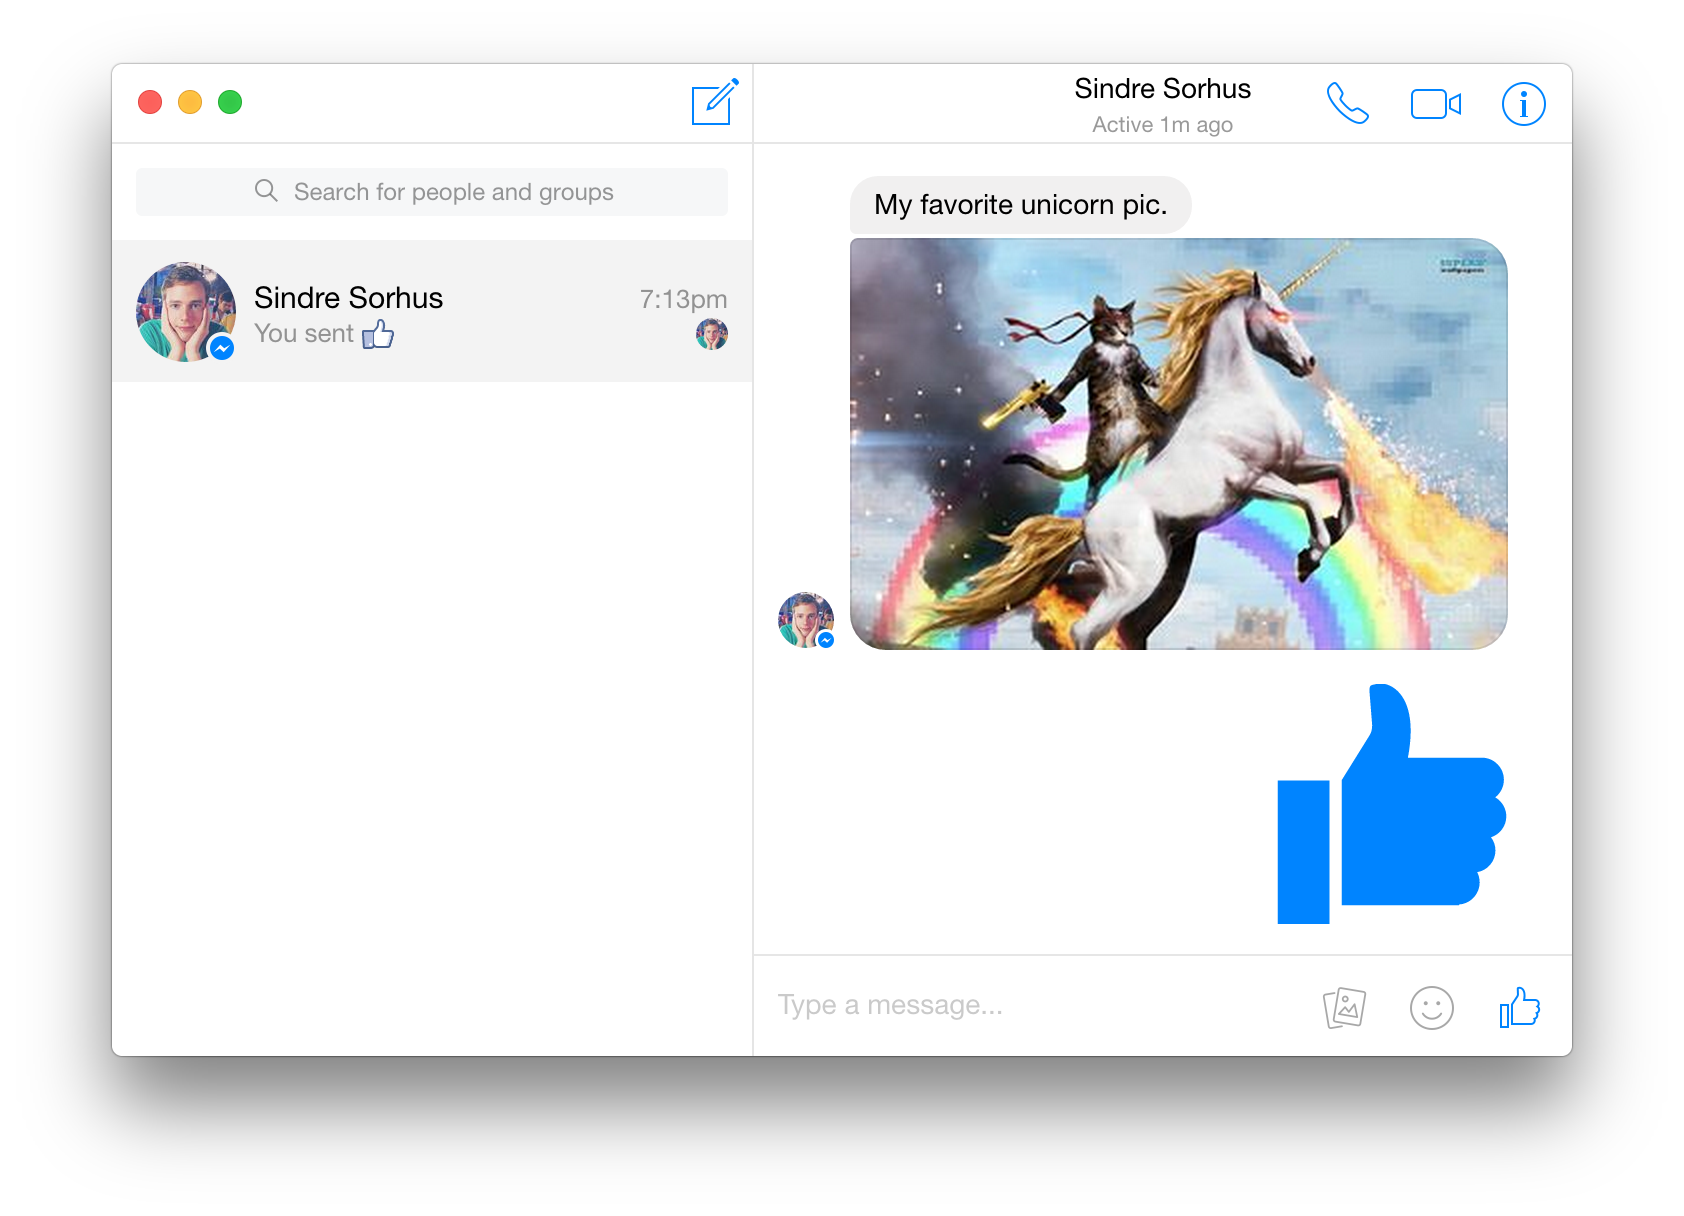
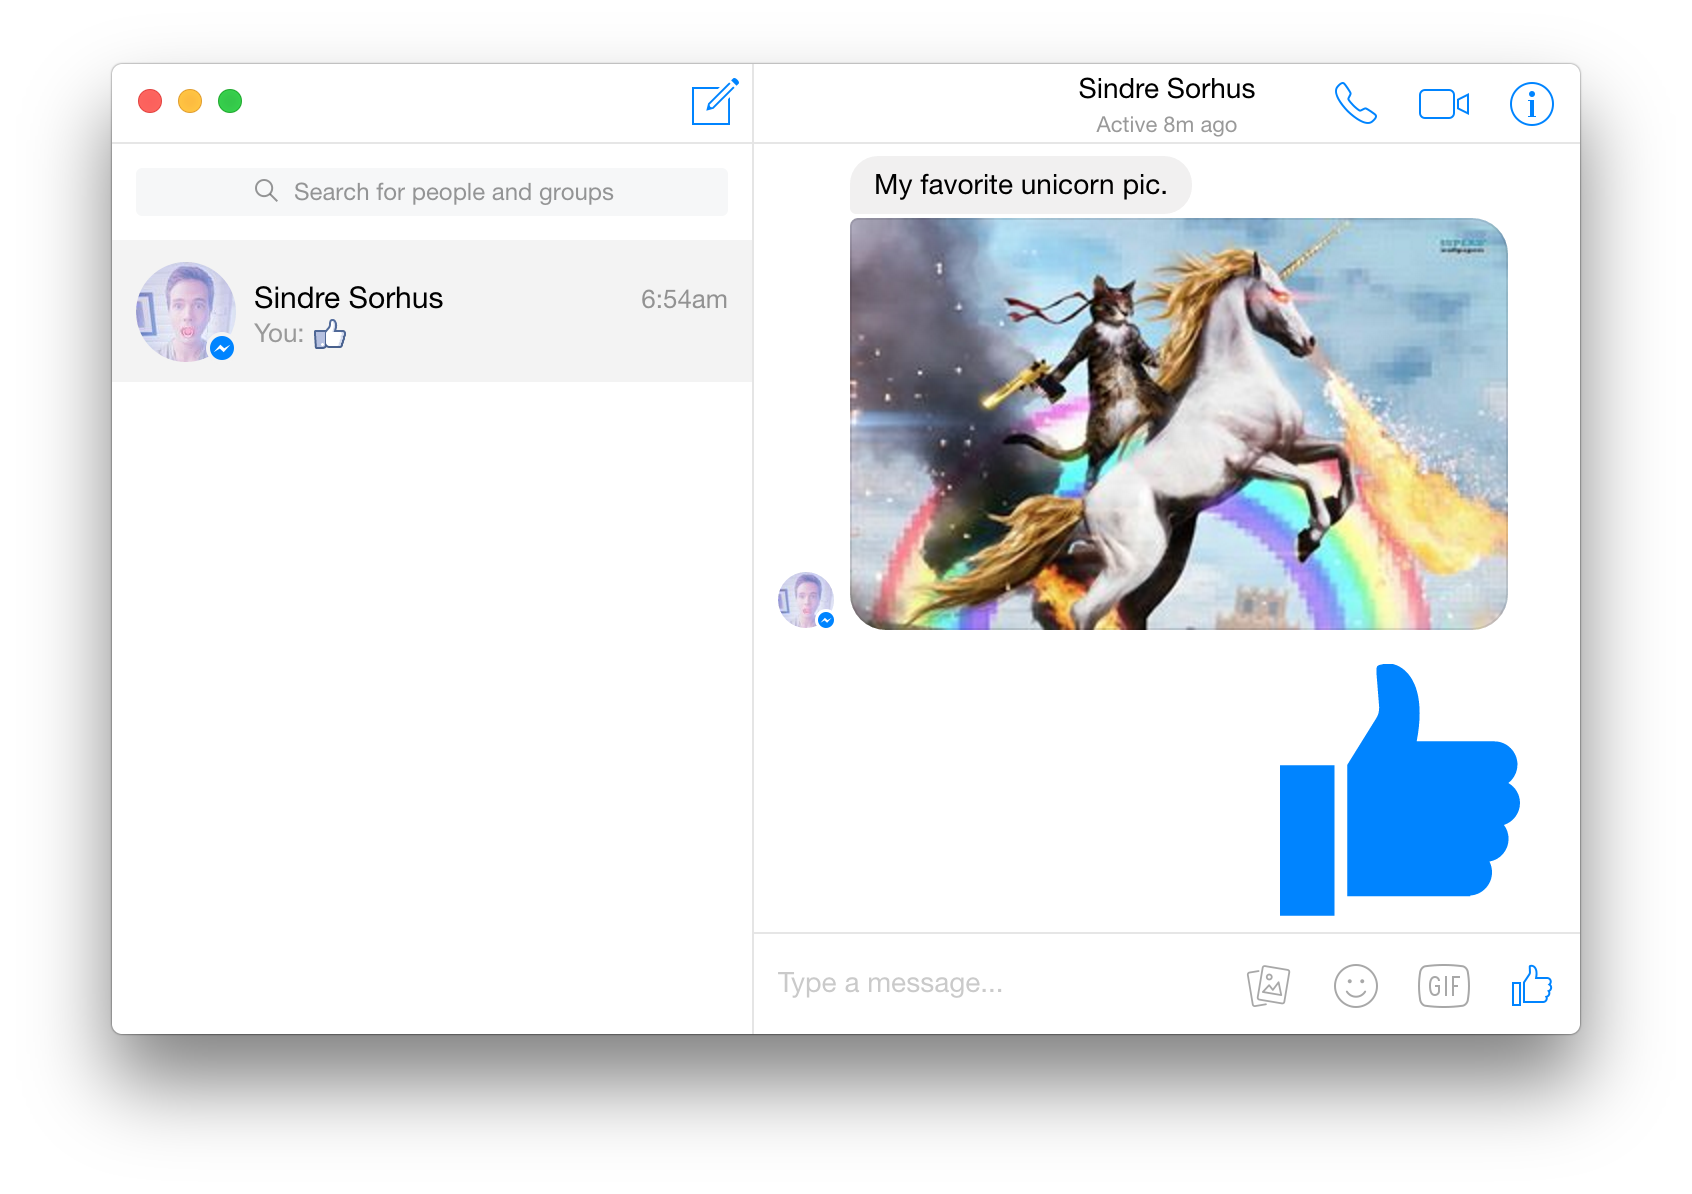
document dark mode

diff --git a/readme.md b/readme.md
@@ -41,6 +41,13 @@ Icon=/full/path/to/folder/Caprine/resources/app/media/Icon.png
 [**Download**](https://github.com/sindresorhus/caprine/releases/latest) and unzip to some location.
 
 
+## Dark mode
+
+You can toggle dark mode in the `Caprine` menu or with <kbd>Cmd</kbd> <kbd>D</kbd>.
+
+![](media/screenshot-dark.png)
+
+
 ## Compact mode
 
 The interface adapts when resized to a small size.
